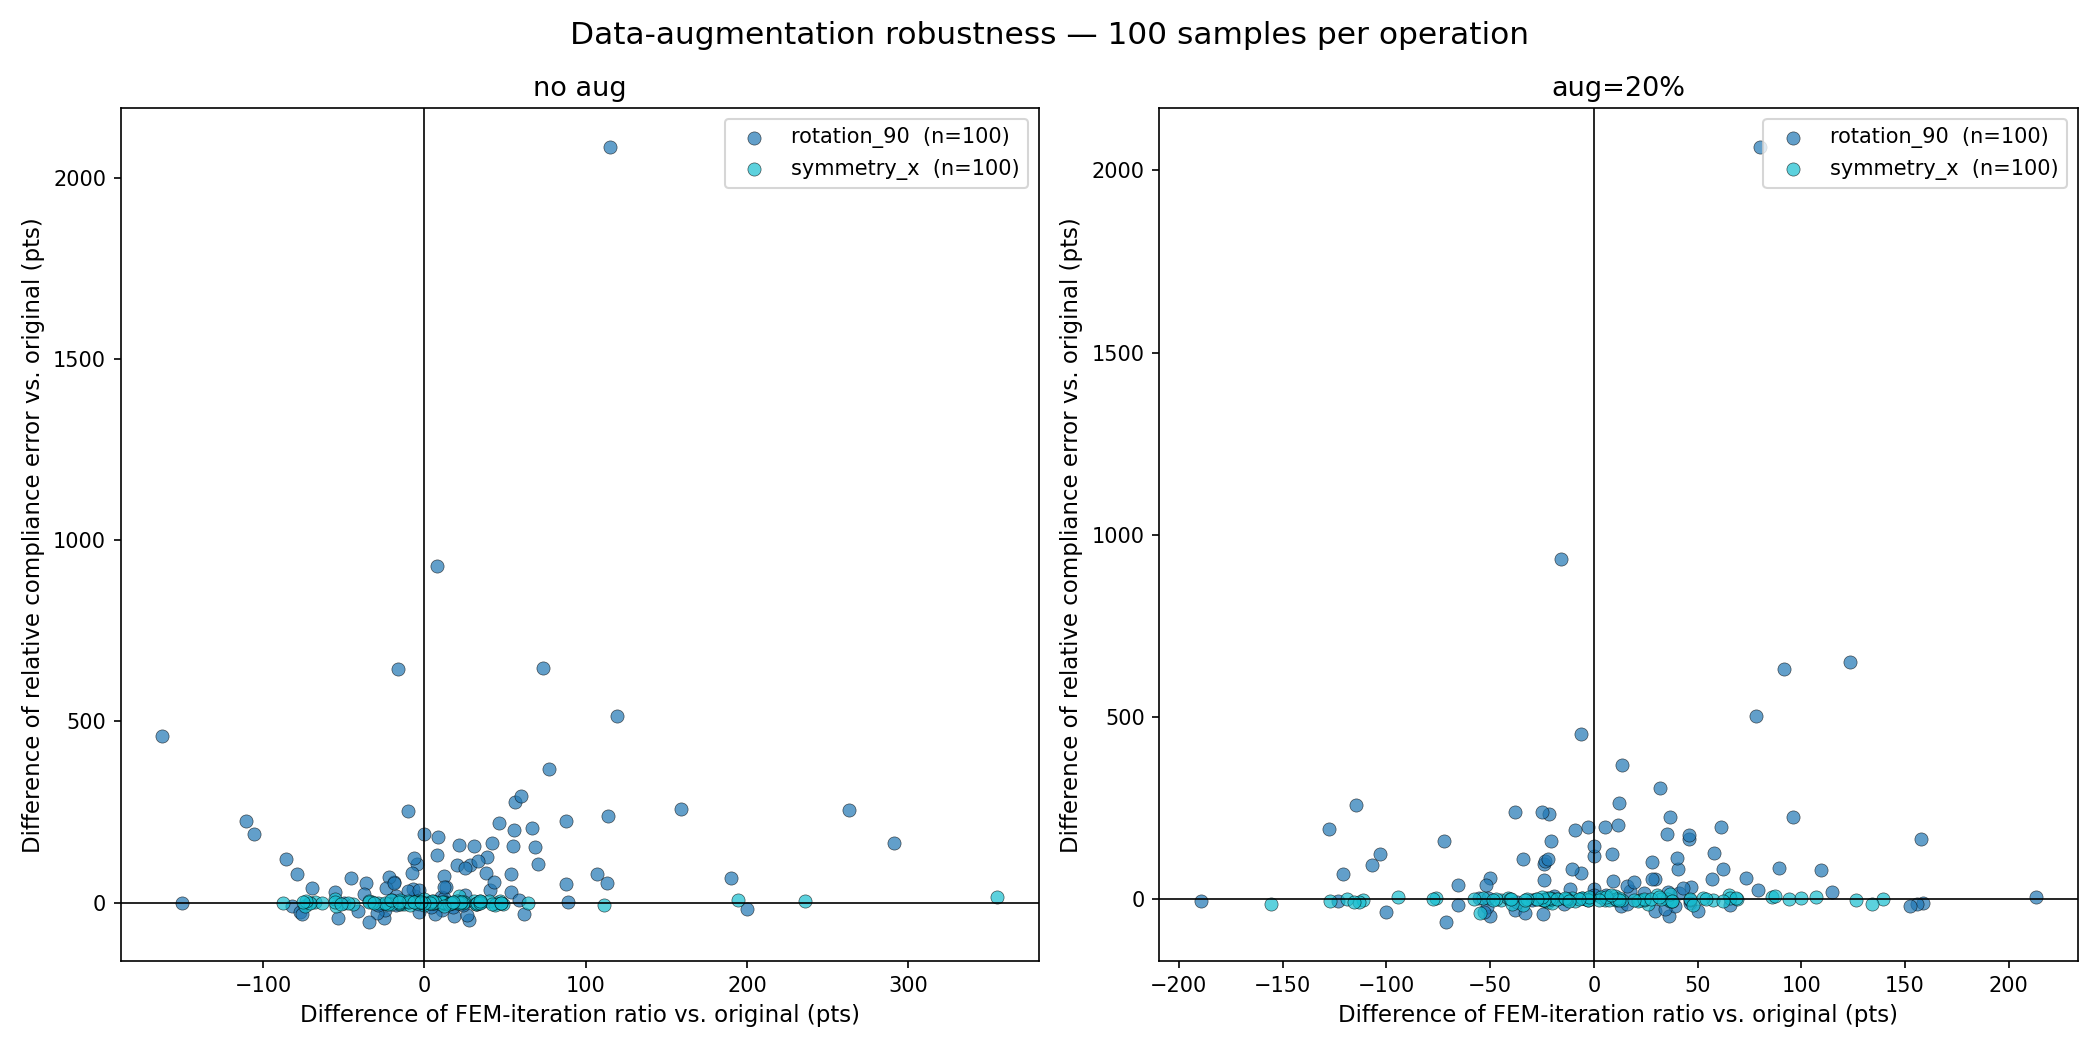
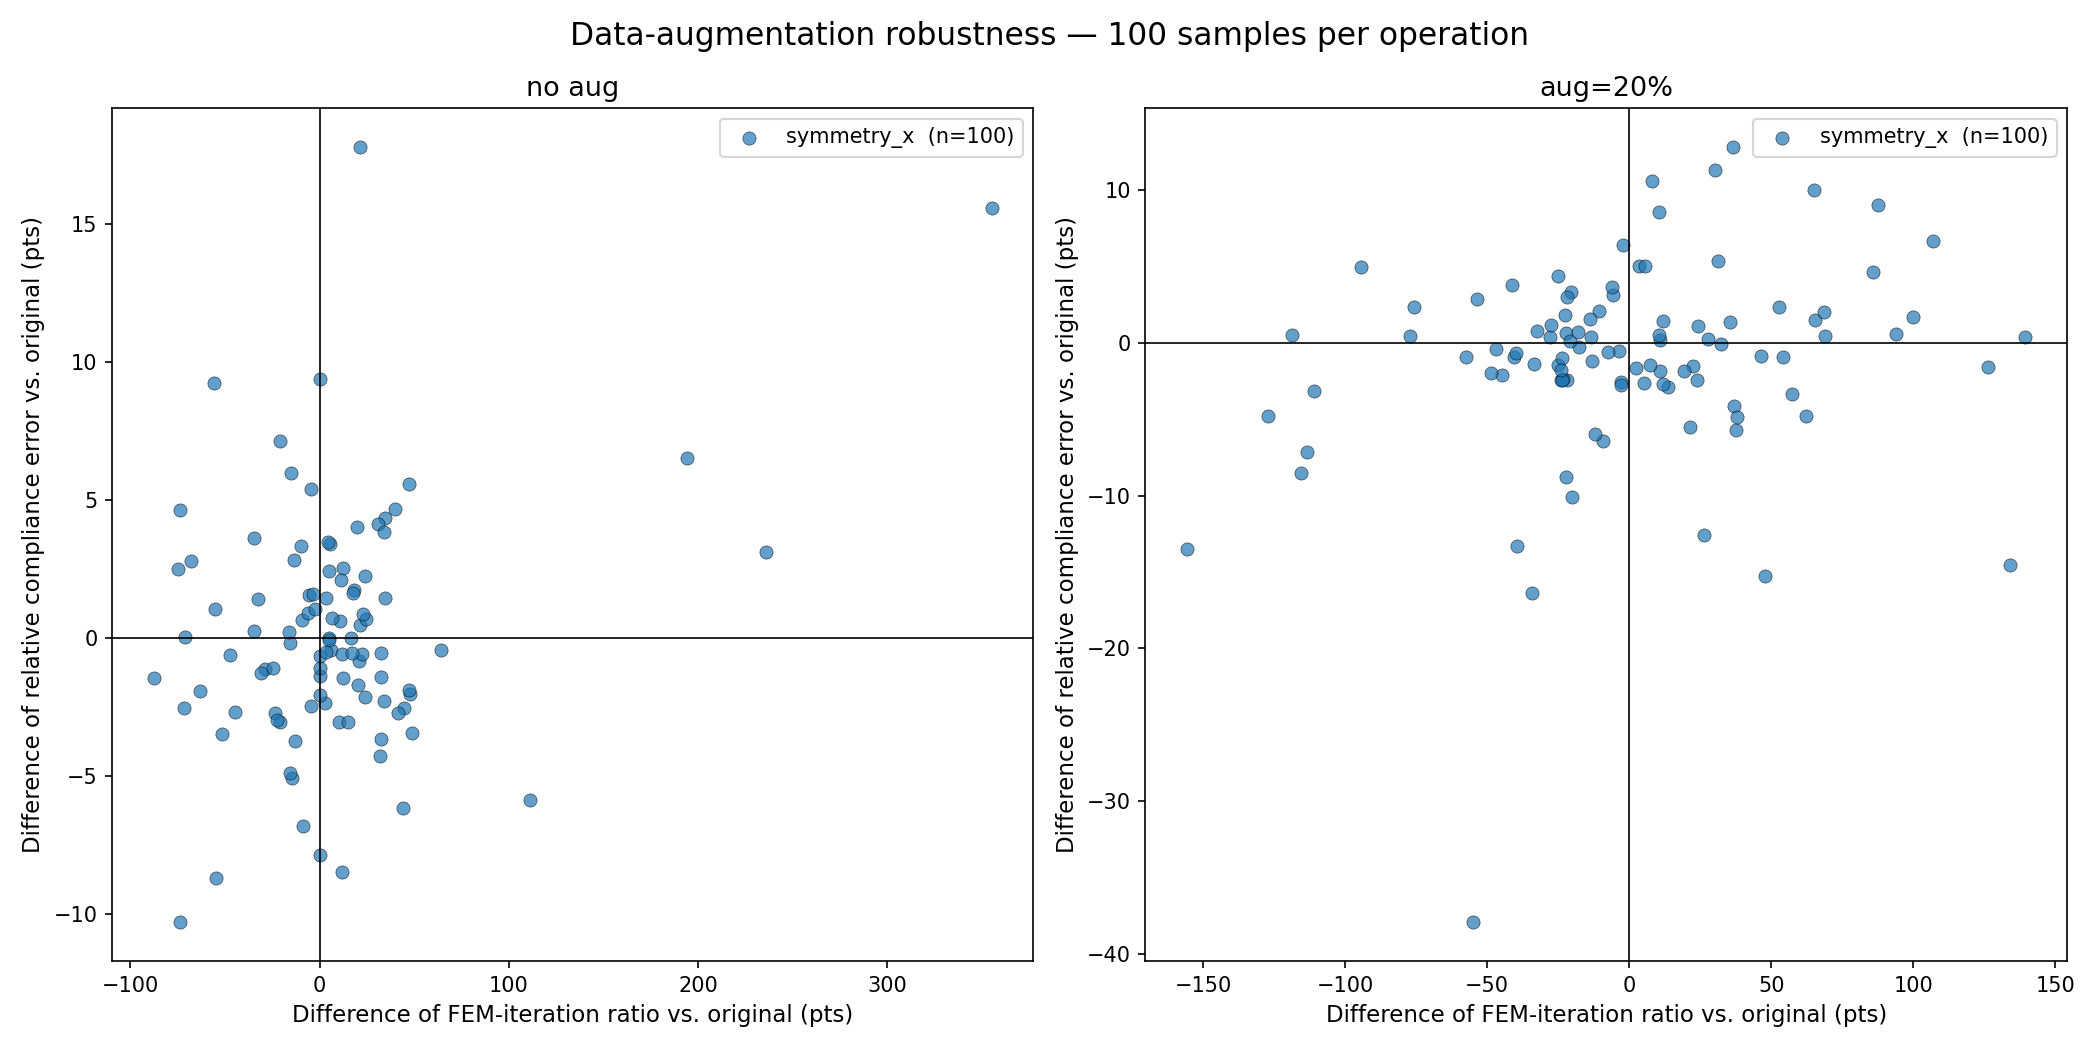
Small visual improvements

diff --git a/Software/OT_NN/Pytorch_NN/TopOpt_benchmark_architecture.py b/Software/OT_NN/Pytorch_NN/TopOpt_benchmark_architecture.py
@@ -38,6 +38,10 @@ NGPpS    = 9
 E        = 1000
 NU       = 0.3
 
+#%% Benchmark settings
+
+RUN_BENCHMARK = False  # Set to False to skip the benchmark and only read the results file
+RESET_BENCHMARK = False # deletes old benchmark csv file
 
 
 #%% Load dataset
@@ -82,25 +86,21 @@ eng.eval("D = DHooks2D(1000, 0.3, 'Plane Stress');", nargout=0)
 
 
 #%% Define benchmark
-
 # [Strategy, Model, First step, NIF, N_conv, use cbam, use augmentation, probability of augmentation, dataset portion, batch size]
 list_benchmark = [
-    ['Only UNet', 'U-Net', 'UNet', 16, 2, False, False, 0.2, 0.5, 16],
-    ['Only UNet', 'U-Net', 'UNet', 32, 2, False, False, 0.2, 1  , 16],
-    ['Only UNet', 'U-Net', 'UNet', 32, 2, False, False, 0.2, 1  ,  8],
-    ['Only UNet', 'U-Net', 'UNet', 32, 2, False, False, 0.2, 1  , 32],
-    ['Only UNet', 'U-Net', 'UNet', 32, 2, False, False, 0.2, 0.5, 16],
-    ['Only UNet','U-Net'  , 'UNet', 32,2, False, True , 0.5, 1  , 16],
-    ['Only UNet', 'U-Net', 'UNet', 32, 3, False, False, 0.2, 1  , 16],
-    ['Only UNet', 'U-Net', 'UNet', 32, 2, True , False, 0.2, 1  , 16],
-    ['Only UNet', 'U-Net', 'UNet', 32, 2, False, True , 0.2, 1  , 16],
-    ['Only UNet', 'U-Net', 'UNet', 32, 3, True , True , 0.2, 1  , 16],
-    ['Only UNet', 'U-Net', 'UNet', 32, 2, True , True , 0.2, 0.5, 16],
-    ['Only UNet','BE_UNet', 'UNet', 32, 2, False, False, 0.2, 1 , 16],
-    ['Only UNet','BE_UNet', 'UNet', 32, 2, False, False, 0.2,0.5, 16],
-    ['Only UNet','BE_UNet', 'UNet', 32, 2, True, False , 0.2, 1 , 16],
-    # ['Only UNet','BE_UNet', 'UNet', 32, 2, False, True , 0.2, 1 , 16],
-    ['Only UNet','BE_UNet', 'UNet', 32, 2, True, True , 0.2 , 1 , 16],
+    ['Only UNet', 'U-Net', 'UNet', 16, 2, False, False, 0.2, 0.5, 16],  # 1
+    ['Only UNet', 'U-Net', 'UNet', 32, 2, False, False, 0.2, 1  , 16],  # 2
+    ['Only UNet', 'U-Net', 'UNet', 32, 2, False, False, 0.2, 1  ,  8],  # 3
+    ['Only UNet', 'U-Net', 'UNet', 32, 2, False, False, 0.2, 1  , 32],  # 4
+    ['Only UNet', 'U-Net', 'UNet', 32, 2, False, False, 0.2, 0.5, 16],  # 5
+    ['Only UNet', 'U-Net', 'UNet', 32, 2, False, True , 0.5, 1  , 16],  # 6
+    ['Only UNet', 'U-Net', 'UNet', 32, 3, False, False, 0.2, 1  , 16],  # 7
+    ['Only UNet', 'U-Net', 'UNet', 32, 2, True , False, 0.2, 1  , 16],  # 8
+    ['Only UNet', 'U-Net', 'UNet', 32, 2, False, True , 0.2, 1  , 16],  # 9
+    ['Only UNet', 'U-Net', 'UNet', 32, 3, True , True , 0.2, 1  , 16],  # 10
+    ['Only UNet', 'U-Net', 'UNet', 32, 2, True , True , 0.2, 0.5, 16],  # 11
+    ['Only UNet', 'U-Net', 'UNet', 32, 2, True , True , 0.2, 1  , 16],  # 12
+    ['Only UNet', 'U-Net', 'UNet', 32, 2, True , True , 0.5, 1  , 16],  # 13
 ]
 
 # Column layout of each list_benchmark entry, reused for the CSV header,
@@ -115,7 +115,6 @@ RESULT_COLUMNS = ['Input ID',
                   'Ratio of FEM iterations (Hybrid / full-FEM)',
                   'Relative compliance error']
 
-RESET_BENCHMARK = True # deletes old benchmark csv file
 
 if RESET_BENCHMARK:
     TYPE_WRITE = 'w'
@@ -126,7 +125,7 @@ SIZE_LOOP = 100
 
 name_benchmark_file = 'benchmark_architecture.csv'
 
-RUN_BENCHMARK = False  # Set to False to skip the benchmark and only read the results file
+
 
 #%% Run benchmark
 
@@ -248,25 +247,7 @@ if RUN_BENCHMARK:
 
 #%% Read File Benchmark
 
-list_benchmark = [
-    ['Only UNet', 'U-Net', 'UNet', 16, 2, False, False, 0.2, 0.5, 16],
-    ['Only UNet', 'U-Net', 'UNet', 32, 2, False, False, 0.2, 1  , 16], # reference configuration
-    ['Only UNet', 'U-Net', 'UNet', 32, 2, False, False, 0.2, 1  ,  8], # batch size 8
-    ['Only UNet', 'U-Net', 'UNet', 32, 2, False, False, 0.2, 1  , 32], # batch size 32
-    ['Only UNet', 'U-Net', 'UNet', 32, 2, False, False, 0.2, 0.5, 16],
-    ['Only UNet','U-Net'  , 'UNet', 32,2, False, True , 0.5, 1  , 16], # data augmentation
-    ['Only UNet', 'U-Net', 'UNet', 32, 3, False, False, 0.2, 1  , 16], # N_conv = 3
-    ['Only UNet', 'U-Net', 'UNet', 32, 2, True , False, 0.2, 1  , 16], #CBAM
-    ['Only UNet', 'U-Net', 'UNet', 32, 2, False, True , 0.2, 1  , 16], # data augmentation
-    ['Only UNet', 'U-Net', 'UNet', 32, 3, True , True , 0.2, 1  , 16],
-    ['Only UNet', 'U-Net', 'UNet', 32, 2, True , True , 0.2, 0.5, 16],
-    ['Only UNet', 'U-Net', 'UNet', 32, 2, True , True , 0.2, 1, 16],
-    ['Only UNet', 'U-Net', 'UNet', 32, 2, True , True , 0.5, 1, 16],
-    # ['Only UNet','BE_UNet', 'UNet', 32, 2, False, False, 0.2, 1 , 16], # reference BE_UNet configuration
-    # ['Only UNet','BE_UNet', 'UNet', 32, 2, False, False, 0.2,0.5, 16],
-    # ['Only UNet','BE_UNet', 'UNet', 32, 2, True, False , 0.2, 1 , 16],
-    # ['Only UNet','BE_UNet', 'UNet', 32, 2, True, True , 0.2 , 1 , 16],
-]
+
 
 
 df = pd.read_csv(BASE / 'Software' / 'OT_NN' / 'Pytorch_NN' / 'results' / name_benchmark_file)
@@ -366,6 +347,34 @@ plot_smape_benchmark(list_benchmark, smape_csv, 'Architecture')
 
 # Fused chart: FEM-iteration ratio (blue), compliance error (orange), sMAPE (green)
 plot_FEM_smape_c(list_benchmark, Tab_ratio_FEM, Tab_err_rel_c, smape_csv, 'Architecture')
+
+
+#%% Architecture summary table (for the report)
+
+rows = []
+for k, bench in enumerate(list_benchmark, start=1):
+    sub = df[_config_mask(df, bench)]
+    rows.append({
+        'Cfg': k,
+        'NIF': bench[3], 'N_conv': bench[4], 'CBAM': bench[5],
+        'aug': bench[6], 'p_aug': bench[7] if bench[6] else None,
+        'portion': bench[8], 'bs': bench[9],
+        'perf': sub['Ratio of FEM iterations (Hybrid / full-FEM)'].mean() * 100,
+        'perf_med': sub['Ratio of FEM iterations (Hybrid / full-FEM)'].median() * 100,
+        'prec': sub['Relative compliance error'].mean() * 100,
+        'prec_med': sub['Relative compliance error'].median() * 100,
+        'n': len(sub),
+    })
+
+table = pd.DataFrame(rows)
+
+# Attach the mean sMAPE of each configuration, matched on the same config columns
+df_smape = pd.read_csv(smape_csv)
+smape_col = [c for c in df_smape.columns if 'smape' in c.lower()][-1]
+table['smape'] = [df_smape[_config_mask(df_smape, bench)][smape_col].mean() * 100
+                  for bench in list_benchmark]
+
+print(table.round(2).to_string(index=False))
 
 
 #%%

diff --git a/Software/OT_NN/Pytorch_NN/TopOpt_benchmark_model.py b/Software/OT_NN/Pytorch_NN/TopOpt_benchmark_model.py
@@ -29,6 +29,11 @@ sys.path.append(str(BASE / 'Software' / 'OT_Functions'))
 sys.path.append(str(BASE / 'Software' / 'OT_Software'))
 
 
+#%% Benchmark settings (Run the benchmark or only read the results file)
+
+RUN_BENCHMARK = False  # Set to False to skip the benchmark and only read the results file
+RESET_BENCHMARK = False # deletes old benchmark csv file
+
 
 #%% Constants
 IMG_SIZE = 32
@@ -138,7 +143,6 @@ RESULT_COLUMNS = ['Input ID',
                   'Ratio of FEM iterations (Hybrid / full-FEM)',
                   'Relative compliance error']
 
-RESET_BENCHMARK = True # deletes old benchmark csv file
 
 if RESET_BENCHMARK:
     TYPE_WRITE = 'w'
@@ -149,7 +153,6 @@ SIZE_LOOP = 100
 
 name_benchmark_file = 'benchmark_architecture.csv'
 
-RUN_BENCHMARK = False  # Set to False to skip the benchmark and only read the results file
 
 #%% Run benchmark
 
@@ -384,4 +387,46 @@ plot_pareto_front_c(list_benchmark, Tab_ratio_FEM, Tab_err_rel_c,
                         TYPE_BENCHMARK='Architecture', use_abs_error=False,
                         show_error=False, SAVE_PATH=None,
                         scale_font = 1.5, scale_dot = 2)
+
+
+#%% Model comparison summary (for the report)
+
+model_labels = ['U-Net', 'BE U-Net', 'Energy',
+                'U-Net + CBAM', 'BE U-Net + CBAM', 'Energy + aug']
+
+rows = []
+for label, bench in zip(model_labels, list_benchmark):
+    sub = df[_config_mask(df, bench)]
+    perf = sub['Ratio of FEM iterations (Hybrid / full-FEM)'] * 100
+    prec = sub['Relative compliance error'] * 100
+    rows.append({
+        'Model': label,
+        'perf': perf.mean(),
+        'perf_med': perf.median(),
+        'perf_p17': perf.quantile(0.165),
+        'perf_p83': perf.quantile(0.835),
+        'prec': prec.mean(),
+        'prec_med': prec.median(),
+        'prec_p17': prec.quantile(0.165),
+        'prec_p83': prec.quantile(0.835),
+        'n': len(sub),
+    })
+
+print(pd.DataFrame(rows).round(2).to_string(index=False))
+
+# Parameter counts, for the discussion on the Boundary-Embedded U-Net
+for label, bench in zip(model_labels, list_benchmark):
+    if bench[1] == 'Energy':
+        continue
+    n_in = 1 if bench[1] == 'BE_UNet' else 3
+    if bench[1] == 'BE_UNet':
+        m = BE_UNetTopo(nif=bench[3], n_in=n_in, n_out=3, use_cbam=bench[5],
+                        hidden_layers_MLP=[32, 64], embed_out=128,
+                        N_conv=bench[4])
+    else:
+        m = UNetTopo(nif=bench[3], n_in=n_in, n_out=3, use_cbam=bench[5],
+                     N_conv=bench[4])
+    print(f'{label:20s} {sum(p.numel() for p in m.parameters())/1e6:.2f} M')
+
+
 #%%

diff --git a/Software/OT_NN/Pytorch_NN/TopOpt_process_img_gen.py b/Software/OT_NN/Pytorch_NN/TopOpt_process_img_gen.py
@@ -174,13 +174,14 @@ sample_start = IterationSample(IterationDataset(ds_filtre.get_series(ID_distrib)
 ds_iter=IterationDataset(ds_filtre.get_series(ID_distrib))
 
 list_images=[
-    ['Only UNet', 'UNet', 3, False],
-    ['Only UNet', 'UNet', 3, True],
-    ['Only UNet', 'FEM',  3, True],
-    ['10 Unet - 1 FEM', 'UNet', 3, True],
-    ['10 Unet - 1 FEM', 'FEM',  3, True],
-    ['Decreasing compliance', 'UNet', 3, True],
-    ['Decreasing compliance', 'FEM',  3, True],
+    ['Only UNet', 'UNet', 5, False],
+    ['Only UNet', 'FEM', 5, False],
+    # ['Only UNet', 'UNet', 3, True],
+    # ['Only UNet', 'FEM',  3, True],
+    # ['10 Unet - 1 FEM', 'UNet', 3, True],
+    # ['10 Unet - 1 FEM', 'FEM',  3, True],
+    # ['Decreasing compliance', 'UNet', 3, True],
+    # ['Decreasing compliance', 'FEM',  3, True],
 ]
 
 COMPUTE_FEM_COMPLIANCE = True
@@ -223,7 +224,7 @@ for Strategy, Type_First, window_Unet, end_FEM in list_images:
         List_count_FEM,
         NETWORK=NETWORK,
         PLOT=True,
-        SCALE='linear',
+        SCALE='log',
         eng=ENG,   # re-evaluate each iterate with FEM: removes U-Net pseudo-compliance spikes
         SAVE_PATH= img_convergence_path,
         SHOW_FEM_C=True,
@@ -232,7 +233,7 @@ for Strategy, Type_First, window_Unet, end_FEM in list_images:
 
     img_comparison_path = save_path / f'comparison_{NETWORK}_ID={ID_distrib}_{Strategy}_TypeFirst={Type_First}_windowUnet={window_Unet}_endFEM={end_FEM}.png'
 
-    compare_NN_FEM(List_iterations[-1], FEM_sample, SAVE_PATH=img_comparison_path)
+    compare_NN_FEM(List_iterations[-1], FEM_sample, SAVE_PATH=img_comparison_path, end_FEM=end_FEM)
 
     density_evolution(List_iterations,List_count_FEM, 1)
 

diff --git a/Software/OT_NN/Pytorch_NN/topology_utils.py b/Software/OT_NN/Pytorch_NN/topology_utils.py
@@ -1448,7 +1448,7 @@ def save_density_video(List_iterations, SAVE_DIR, FPS=5):
 
 #%% Compare NN and FEM results for a given force distribution
 
-def compare_NN_FEM(sample_NN, sample_FEM, SAVE_PATH=None):
+def compare_NN_FEM(sample_NN, sample_FEM, SAVE_PATH=None, end_FEM=True):
     """
     Display the optimized densities of a U-Net run and a FEM run side by side,
     each overlaid with its boundary traction arrows, sharing a common density
@@ -1481,7 +1481,7 @@ def compare_NN_FEM(sample_NN, sample_FEM, SAVE_PATH=None):
         ax.set_ylim(-cadre, img_size + cadre)
         ax.set_aspect('equal')
         ax.axis('off')
-        ax.set_title(title, fontsize=24, pad=-50)
+        ax.set_title(title, fontsize=24, pad=-200)
 
         T_scale = sample.Tractions.squeeze().numpy() * scale_force
         T_scale = T_scale.T
@@ -1505,7 +1505,10 @@ def compare_NN_FEM(sample_NN, sample_FEM, SAVE_PATH=None):
 
         return im
 
-    im = plot_density(axes[0], sample_NN,  'Hybrid solution')
+    if end_FEM:
+        im = plot_density(axes[0], sample_NN,  'Hybrid solution')
+    else:
+        im = plot_density(axes[0], sample_NN,  'U-Net solution')
     plot_density(axes[1], sample_FEM, 'FEM solution')
 
     # Common reference arrow on axes[0]

diff --git a/Software/OT_NN/Pytorch_NN/TopOpt_benchmark_data_augment.py b/Software/OT_NN/Pytorch_NN/TopOpt_benchmark_data_augment.py
@@ -33,6 +33,10 @@ from model         import *
 from dataset       import *
 from topology_utils import *
 
+#%% Run control
+RUN_BENCHMARK   = False    # Set to False to skip the benchmark and only read the CSV
+RESET_BENCHMARK = False    # overwrite the CSV (False -> append)
+
 
 #%% Paths & constants
 
@@ -83,7 +87,7 @@ list_benchmark = [
 # reference; the other two are physical symmetries the model should preserve.
 OPERATIONS = {
     'original':    lambda s: s,
-    'rotation_90': lambda s: rotation_90(s, N_rot=1),
+    # 'rotation_90': lambda s: rotation_90(s, N_rot=1),
     'symmetry_x':  symmetry_x,
 }
 
@@ -136,9 +140,6 @@ RESULT_COLUMNS = ['Input ID',
 SIZE_LOOP           = 100
 name_benchmark_file = 'benchmark_data_augment.csv'
 BENCHMARK_CSV       = RESULTS_ROOT / 'U-Net' / name_benchmark_file
-
-RUN_BENCHMARK   = True    # Set to False to skip the benchmark and only read the CSV
-RESET_BENCHMARK = True    # overwrite the CSV (False -> append)
 
 
 #%% Run benchmark
